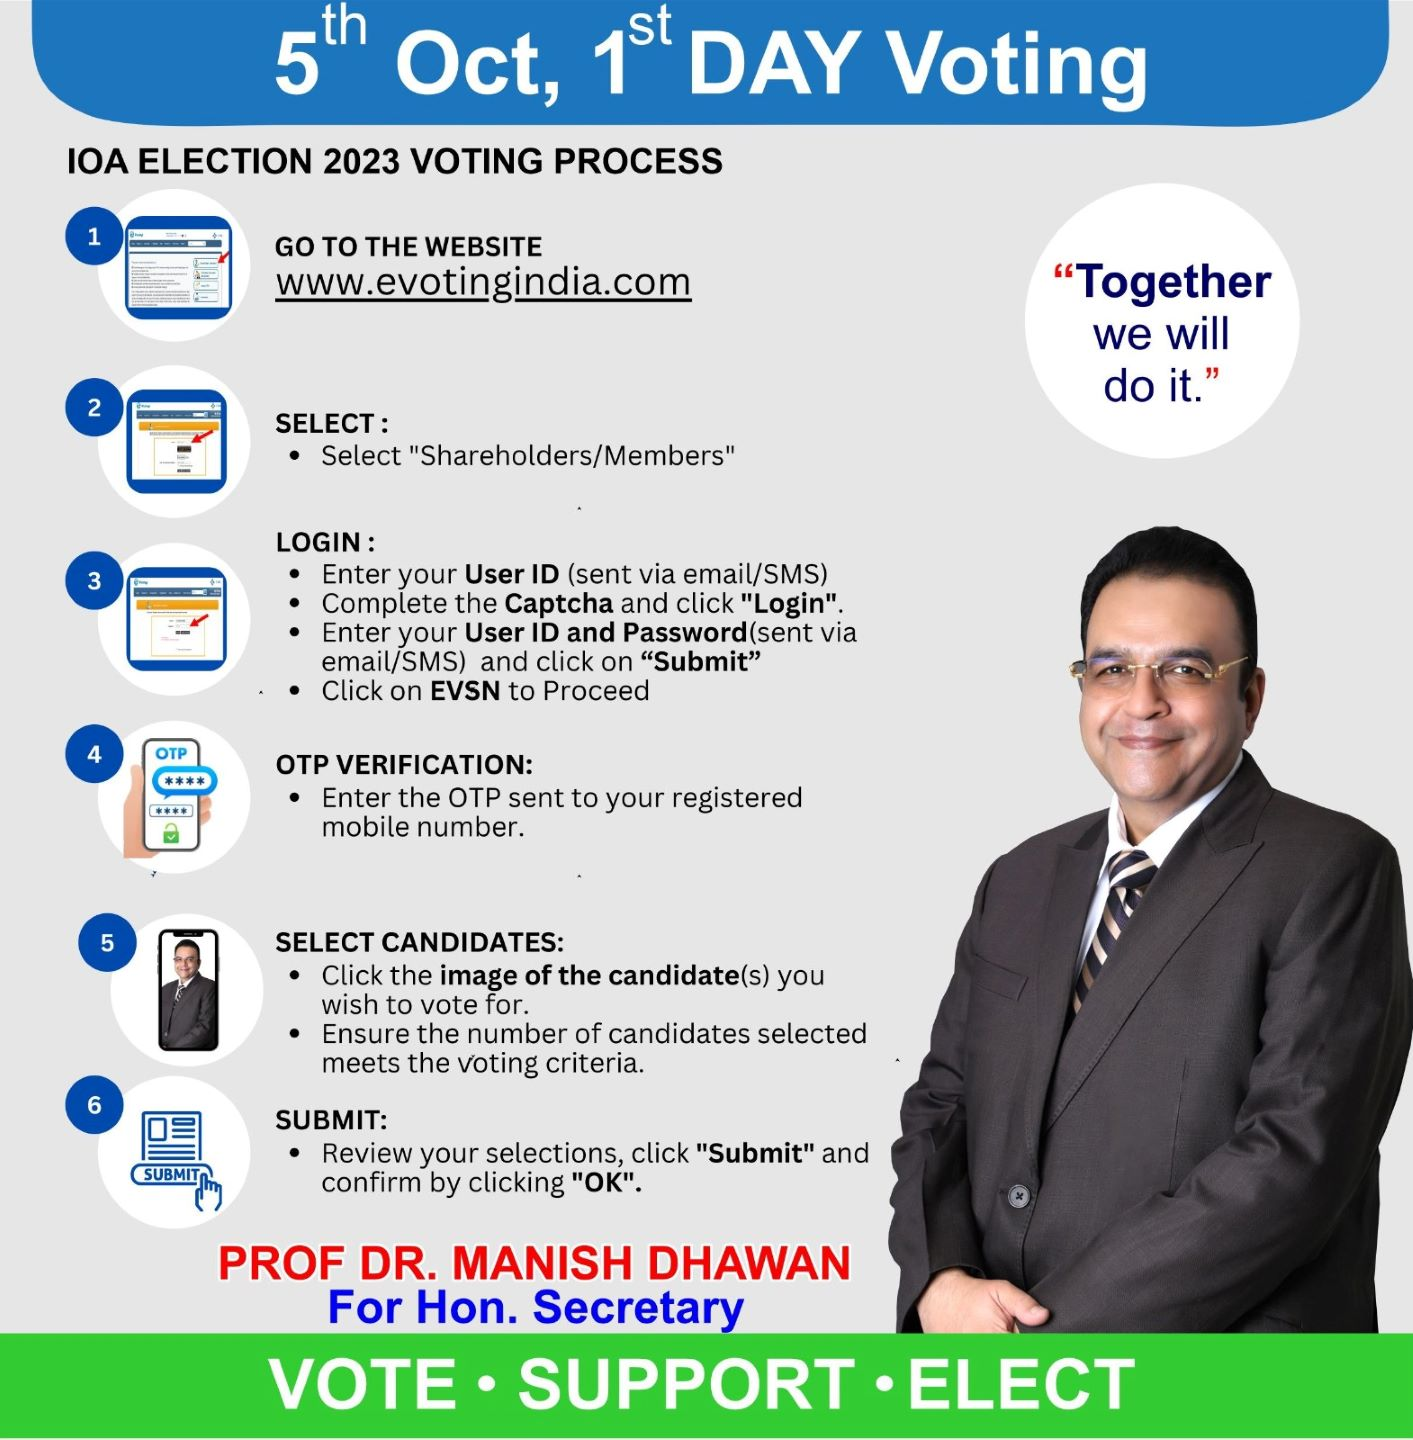
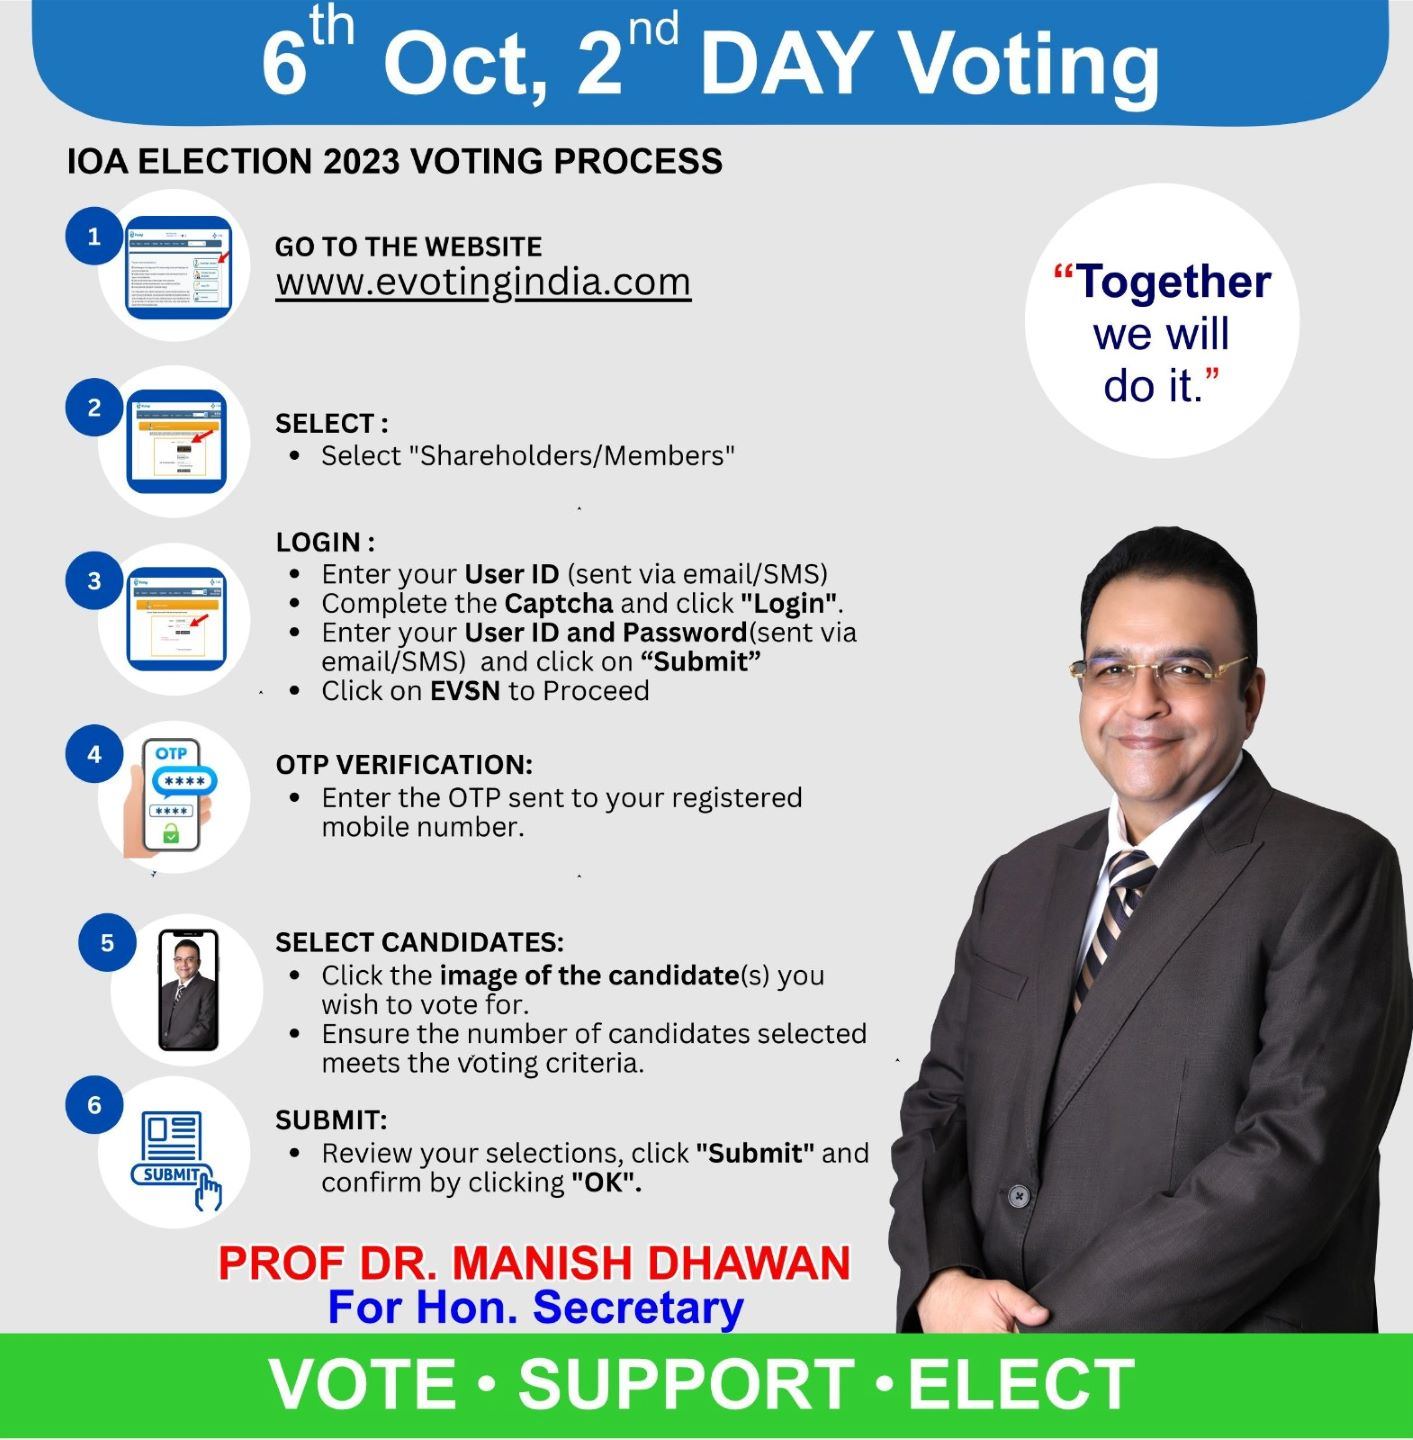
Email Template

Changed region(s): [[0.1868, 0.0, 0.8408, 0.0938]]

diff --git a/VotingStartedEmails/Day2/index.html b/VotingStartedEmails/Day2/index.html
@@ -65,16 +65,15 @@
             </tr>
             <tr>
                 <td colspan = "2" style ="text-align: center; ">
-                    <img src="https://github.com/techiedharam/Dr.ManishDhawan/blob/master/VotingStartedEmails/Day1/1stDay.gif?raw=true" width="100%" alt=""/>
+                    <img src="https://github.com/techiedharam/Dr.ManishDhawan/blob/master/Email-Marketing/gif/Vote-For-Our-Team-For-Clean-IOA.gif?raw=true" width="100%" alt=""/>
                 </td>
             </tr>
       <!-- ========= Support Poster  Section Started ========= -->
-      <tr>
-        <td colspan="2">
-            <img src="https://github.com/techiedharam/Dr.ManishDhawan/blob/master/VotingStartedEmails/Day1/poster1.jpg?raw=true" alt="" width="100%">
-        </td>
-        
-    </tr>
+            <tr>
+                <td  colspan = "2">
+                 <img src="https://github.com/techiedharam/Dr.ManishDhawan/blob/master/Email-Marketing/assets/5thOctoberPoster.jpg?raw=true"  width="100%" alt="">                   
+                </td>
+            </tr>
             <!-- ========= Support Poster  Section Ended ========= -->
 
             
